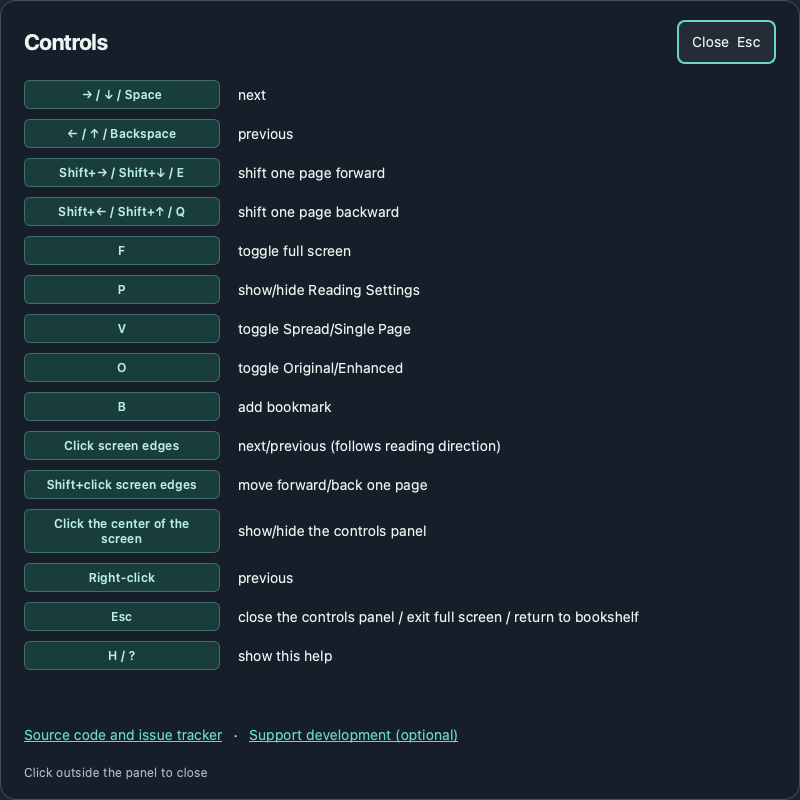
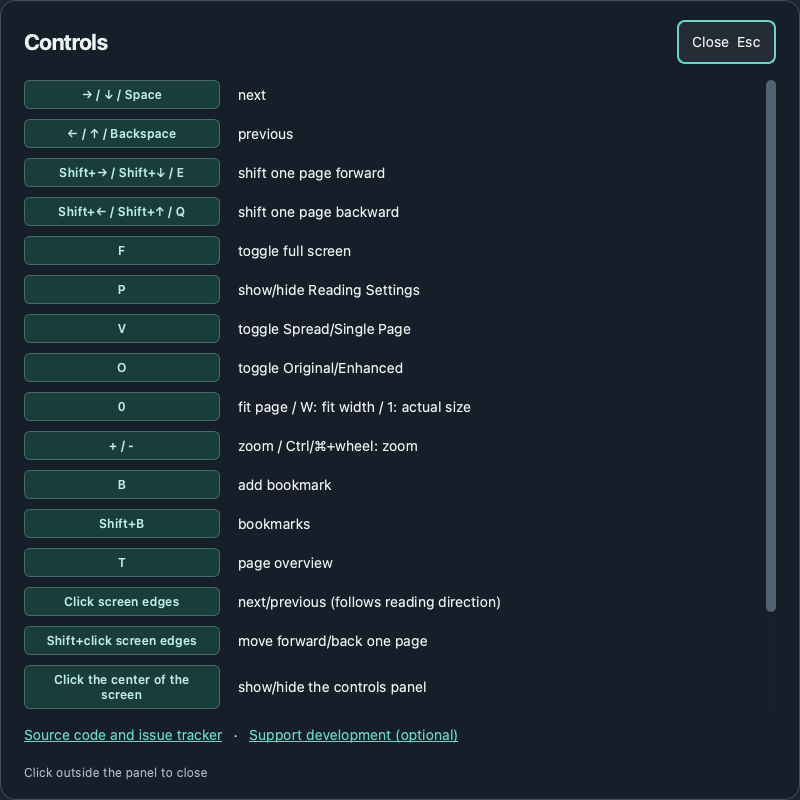
Refresh clean demo UI screenshots

diff --git a/scripts/capture_readme_screenshots.py b/scripts/capture_readme_screenshots.py
@@ -17,6 +17,7 @@ from PySide6.QtWidgets import QApplication
 from mangacrisp_app.bookshelf import BookshelfWindow
 from mangacrisp_app.i18n import set_language
 from mangacrisp_app.library import LibraryPaths, LibraryService, save_library_settings
+from mangacrisp_app.page_overview import PageOverviewDialog
 from mangacrisp_app.shortcut_help import ShortcutHelpDialog
 from mangacrisp_app.viewer import SpreadWindow, viewer_shortcuts_text
 
@@ -99,6 +100,32 @@ def capture(demo_dir: Path, output_dir: Path, language: str = "en") -> None:
             if not help_dialog.card.grab().save(str(output_dir / "shortcut-help.png")):
                 raise RuntimeError("failed to save shortcut-help screenshot")
             help_dialog.close()
+
+            overview = PageOverviewDialog(reader, pages, reader.index)
+            overview.show()
+            # Let the dialog position its initial tile and schedule the visible
+            # window before waiting for the single thumbnail worker.  Waiting
+            # for the worker makes the gallery prove that the grid contains
+            # actual page images rather than the loading placeholders.
+            process_events(app, 0.25)
+            overview.request_timer.stop()
+            overview.request_visible_thumbnails()
+            requested_indexes = set(overview._requested_indexes)
+            if not overview.controller.pool.waitForDone(10_000):
+                raise RuntimeError("page overview thumbnails did not finish")
+            process_events(app, 0.3)
+            loaded_indexes = {
+                index for index, tile in enumerate(overview.tiles) if not tile.icon().isNull()
+            }
+            missing_indexes = requested_indexes - loaded_indexes
+            if missing_indexes:
+                raise RuntimeError(
+                    "page overview thumbnails did not load: "
+                    + ", ".join(str(index + 1) for index in sorted(missing_indexes))
+                )
+            if not overview.card.grab().save(str(output_dir / "page-overview.png")):
+                raise RuntimeError("failed to save page-overview screenshot")
+            overview.close()
             reader.close()
             bookshelf.close()
             process_events(app, 0.2)
